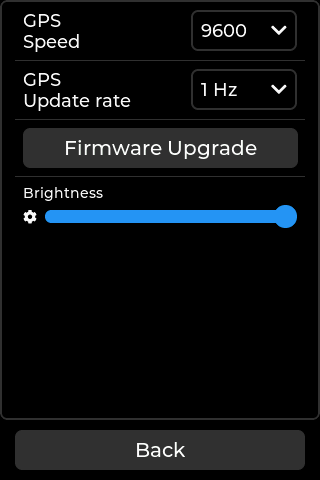
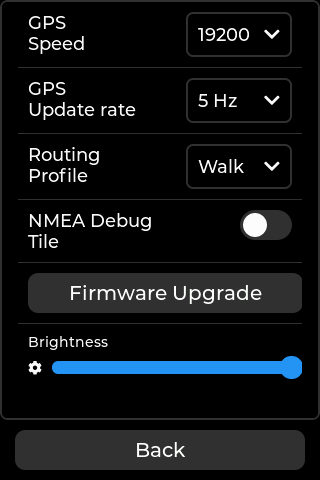
feat(gps): show live raw NMEA in debug tile with opt-in setting

diff --git a/lib/tasks/tasks.cpp b/lib/tasks/tasks.cpp
@@ -27,6 +27,10 @@ uint32_t nmeaDebugCycles = 0;
 uint8_t  nmeaLastMsg     = 0;   // last GPS.nmeaMessage seen per cycle
 portMUX_TYPE nmeaDebugMux = portMUX_INITIALIZER_UNLOCKED;
 
+// Raw NMEA sentence ring buffer — written by gpsTask, read by debug tile
+char    nmeaRawBuf[NMEA_RAW_LINES][NMEA_RAW_LEN] = {};
+uint8_t nmeaRawHead = 0;
+
 static constexpr TickType_t MUTEX_TIMEOUT_GPS  = pdMS_TO_TICKS(15);
 static constexpr TickType_t MUTEX_TIMEOUT_SLOW = pdMS_TO_TICKS(10);
 
@@ -59,24 +63,58 @@ void gpsTask(void *pvParameters)
             }
             else
             {
-                while (GPS.available( gpsPort ))
+                // Feed the parser one character at a time (same bytes, same order
+                // as GPS.available() would consume) while mirroring each complete
+                // sentence into the raw ring buffer for the debug tile. Parsing is
+                // unaffected; capture is purely a side effect.
+                static char    lineBuf[NMEA_RAW_LEN];
+                static uint8_t lineLen = 0;
+
+                while (gpsPort.available())
                 {
-                    fix = GPS.read();
-                    gps.getGPSData();
+                    char c = (char)gpsPort.read();
 
-                    portENTER_CRITICAL(&nmeaDebugMux);
-                    nmeaDebugOk    = GPS.statistics.ok;
-                    nmeaDebugErr   = GPS.statistics.errors;
-                    nmeaLastMsg    = (uint8_t)GPS.nmeaMessage;
-                    nmeaDebugCycles++;
-                    portEXIT_CRITICAL(&nmeaDebugMux);
+                    if (c == '\n' || c == '\r')
+                    {
+                        if (lineLen > 0)
+                        {
+                            lineBuf[lineLen] = '\0';
+                            portENTER_CRITICAL(&nmeaDebugMux);
+                            strncpy(nmeaRawBuf[nmeaRawHead], lineBuf, NMEA_RAW_LEN - 1);
+                            nmeaRawBuf[nmeaRawHead][NMEA_RAW_LEN - 1] = '\0';
+                            nmeaRawHead = (nmeaRawHead + 1) % NMEA_RAW_LINES;
+                            portEXIT_CRITICAL(&nmeaDebugMux);
+                            lineLen = 0;
+                        }
+                    }
+                    else if (lineLen < NMEA_RAW_LEN - 1)
+                    {
+                        lineBuf[lineLen++] = c;
+                    }
 
-                    // Only flag a satellite-data update when this cycle actually
-                    // carried GSV (sat_count > 0). With GSV decimated to ~1Hz the
-                    // intermediate cycles report 0, so this avoids redrawing the
-                    // constellation at the full rate with unchanged data.
-                    if (GPS.sat_count > 0)
-                        satDataUpdated = true;
+                    // handle() returns DECODE_COMPLETED at the end of every
+                    // sentence, but a fix is only buffered once the interval
+                    // closes (LAST_SENTENCE_IN_INTERVAL). Read only when one is
+                    // actually available, exactly like GPS.available() does.
+                    if (GPS.handle((uint8_t)c) == NMEAGPS::DECODE_COMPLETED && GPS.available())
+                    {
+                        fix = GPS.read();
+                        gps.getGPSData();
+
+                        portENTER_CRITICAL(&nmeaDebugMux);
+                        nmeaDebugOk    = GPS.statistics.ok;
+                        nmeaDebugErr   = GPS.statistics.errors;
+                        nmeaLastMsg    = (uint8_t)GPS.nmeaMessage;
+                        nmeaDebugCycles++;
+                        portEXIT_CRITICAL(&nmeaDebugMux);
+
+                        // Only flag a satellite-data update when this cycle actually
+                        // carried GSV (sat_count > 0). With GSV decimated to ~1Hz the
+                        // intermediate cycles report 0, so this avoids redrawing the
+                        // constellation at the full rate with unchanged data.
+                        if (GPS.sat_count > 0)
+                            satDataUpdated = true;
+                    }
                 }
             }
 
@@ -117,13 +155,13 @@ void gpsTask(void *pvParameters)
 /**
  * @brief Initialize GPS processing task
  *
- * @details Creates and starts the GPS task on core 0 with 3KB stack size and priority 2.
+ * @details Creates and starts the GPS task on core 0 with 4KB stack size and priority 2.
  *          Includes a 500ms delay after task creation to ensure proper initialization
  *          before other system components attempt to access GPS data.
  */
 void initGpsTask()
 {
-    xTaskCreatePinnedToCore(gpsTask, PSTR("GPS Task"), 3072, NULL, 2, NULL, 0);
+    xTaskCreatePinnedToCore(gpsTask, PSTR("GPS Task"), 4096, NULL, 2, NULL, 0);
     vTaskDelay(pdMS_TO_TICKS(500));
 }
 

diff --git a/lib/gui/src/nmeaDebugScr.cpp b/lib/gui/src/nmeaDebugScr.cpp
@@ -12,6 +12,8 @@
 #include "mainScr.hpp"
 #include <NMEAGPS.h>
 #include "esp_timer.h"
+#include <cstring>
+#include <cstdio>
 
 extern NMEAGPS GPS;
 extern gps_fix  fix;
@@ -26,6 +28,7 @@ static lv_obj_t *dbgFixLabel;
 static lv_obj_t *dbgSatsLabel;
 static lv_obj_t *dbgBufLabel;
 static lv_obj_t *dbgHintLabel;
+static lv_obj_t *dbgRawLabel;
 
 static uint32_t prevOk    = 0;
 static uint32_t prevCycle = 0;
@@ -97,6 +100,31 @@ static void nmea_debug_observer_cb(lv_observer_t *observer, lv_subject_t *subjec
     lv_label_set_text_fmt(dbgBufLabel, "UART buf  : %d bytes", avail);
 
     lv_label_set_text(dbgHintLabel, "Cfg last: $RMC (NMEAGPS_cfg.h)");
+
+    // Raw NMEA: snapshot the ring buffer under the lock, then format outside it
+    // to keep the critical section (interrupts disabled) as short as possible.
+    static char rawSnap[NMEA_RAW_LINES][NMEA_RAW_LEN];
+    uint8_t head;
+    portENTER_CRITICAL(&nmeaDebugMux);
+    head = nmeaRawHead;
+    memcpy(rawSnap, nmeaRawBuf, sizeof(rawSnap));
+    portEXIT_CRITICAL(&nmeaDebugMux);
+
+    // static to keep it off the (limited) observer/timer-context stack
+    static char rawDump[NMEA_RAW_LINES * NMEA_RAW_LEN];
+    size_t pos = 0;
+    for (uint8_t i = 0; i < NMEA_RAW_LINES; i++)
+    {
+        uint8_t idx = (head + i) % NMEA_RAW_LINES;
+        if (rawSnap[idx][0] == '\0')
+            continue;
+        int written = snprintf(rawDump + pos, sizeof(rawDump) - pos, "%s\n", rawSnap[idx]);
+        if (written < 0 || (size_t)written >= sizeof(rawDump) - pos)
+            break;
+        pos += written;
+    }
+    rawDump[pos] = '\0';
+    lv_label_set_text(dbgRawLabel, rawDump);
 }
 
 /**
@@ -117,7 +145,8 @@ void nmeaDebugScr(_lv_obj_t *screen)
     lv_obj_add_style(cont, &styleTransparent, LV_PART_MAIN);
     lv_obj_set_flex_flow(cont, LV_FLEX_FLOW_COLUMN);
     lv_obj_set_flex_align(cont, LV_FLEX_ALIGN_START, LV_FLEX_ALIGN_START, LV_FLEX_ALIGN_START);
-    lv_obj_clear_flag(cont, LV_OBJ_FLAG_SCROLLABLE);
+    // Stats + raw dump may exceed the tile height; allow vertical scroll.
+    lv_obj_set_scroll_dir(cont, LV_DIR_VER);
 
     auto makeLabel = [&](lv_obj_t *&label, const char *init)
     {
@@ -136,6 +165,14 @@ void nmeaDebugScr(_lv_obj_t *screen)
     makeLabel(dbgSatsLabel,    "Sats used : --");
     makeLabel(dbgBufLabel,     "UART buf  : --");
     makeLabel(dbgHintLabel,    "Cfg last: $RMC");
+
+    // Raw NMEA mirror: last sentences fed to the parser, small monospace-ish font
+    dbgRawLabel = lv_label_create(cont);
+    lv_obj_set_width(dbgRawLabel, TFT_WIDTH - 10);
+    lv_obj_set_style_text_font(dbgRawLabel, fontSmall, 0);
+    lv_obj_set_style_text_color(dbgRawLabel, lv_palette_main(LV_PALETTE_LIGHT_GREEN), 0);
+    lv_label_set_long_mode(dbgRawLabel, LV_LABEL_LONG_WRAP);
+    lv_label_set_text(dbgRawLabel, "");
 
     lv_subject_add_observer_obj(&subject_nmea_debug_trigger,
                                 nmea_debug_observer_cb, cont, NULL);

diff --git a/lib/gui/src/deviceSettingsScr.cpp b/lib/gui/src/deviceSettingsScr.cpp
@@ -37,10 +37,24 @@ static void deviceSettingsEvent(lv_event_t *event)
         navSet.routeSpeed = ROUTE_SPEED_VALUES[idx];
         cfg.saveShort(PKEYS::KROUTE_SPEED, (int16_t)navSet.routeSpeed);
     }
+    if (strcmp(option, "nmeadbg") == 0)
+    {
+        nmeaDebugTileEnabled = lv_obj_has_state(obj, LV_STATE_CHECKED);
+        cfg.saveBool(PKEYS::KNMEA_DEBUG, nmeaDebugTileEnabled);
+        // The main screen tiles are built once at boot; a restart is needed
+        // to add or remove the debug tile.
+        needReboot = true;
+    }
     if (strcmp(option, "back") == 0)
     {
         cfg.saveUInt(PKEYS::KDEF_BRIGT, defBright);
-        lv_screen_load(settingsScreen);
+        if (needReboot)
+        {
+            lv_obj_delete(deviceSettingsScreen);
+            showRestartScr();
+        }
+        else
+            lv_screen_load(settingsScreen);
     }
 }
 
@@ -197,6 +211,18 @@ void createDeviceSettingsScr()
     lv_obj_align_to(dropdown, list, LV_ALIGN_OUT_RIGHT_MID, 0, 0);
     lv_obj_set_width(dropdown, TFT_WIDTH / 3);
     lv_obj_add_event_cb(dropdown, deviceSettingsEvent, LV_EVENT_VALUE_CHANGED, (char*)"routeprofile");
+    // NMEA Debug Tile
+    list = lv_list_add_btn(deviceSettingsOptions, NULL, "NMEA Debug\nTile");
+    lv_obj_set_style_text_font(list, fontOptions, 0);
+    lv_obj_clear_flag(list, LV_OBJ_FLAG_CLICKABLE);
+    lv_obj_set_align(list, LV_ALIGN_LEFT_MID);
+    lv_obj_t *nmeaDbgSwitch = lv_switch_create(list);
+    if (nmeaDebugTileEnabled)
+        lv_obj_add_state(nmeaDbgSwitch, LV_STATE_CHECKED);
+    else
+        lv_obj_clear_state(nmeaDbgSwitch, LV_STATE_CHECKED);
+    lv_obj_align_to(nmeaDbgSwitch, list, LV_ALIGN_OUT_RIGHT_MID, 0, 0);
+    lv_obj_add_event_cb(nmeaDbgSwitch, deviceSettingsEvent, LV_EVENT_VALUE_CHANGED, (char*)"nmeadbg");
     // Upgrade button
     list = lv_list_add_btn(deviceSettingsOptions, NULL, NULL);
     btn = lv_btn_create(list);

diff --git a/lib/gui/src/mainScr.cpp b/lib/gui/src/mainScr.cpp
@@ -990,8 +990,11 @@ void createMainScr()
     mapTile = lv_tileview_add_tile(tilesScreen, 1, 0, (lv_dir_t)(LV_DIR_LEFT | LV_DIR_RIGHT));
     navTile = lv_tileview_add_tile(tilesScreen, 2, 0, (lv_dir_t)(LV_DIR_LEFT | LV_DIR_RIGHT));
     lv_obj_add_flag(navTile, LV_OBJ_FLAG_HIDDEN);
-    satTrackTile = lv_tileview_add_tile(tilesScreen, 3, 0, (lv_dir_t)(LV_DIR_LEFT | LV_DIR_RIGHT));
-    nmeaDebugTile = lv_tileview_add_tile(tilesScreen, 4, 0, LV_DIR_LEFT);
+    // The satellite tile keeps a right swipe only when the NMEA debug tile exists.
+    lv_dir_t satTileDir = nmeaDebugTileEnabled ? (lv_dir_t)(LV_DIR_LEFT | LV_DIR_RIGHT) : LV_DIR_LEFT;
+    satTrackTile = lv_tileview_add_tile(tilesScreen, 3, 0, satTileDir);
+    if (nmeaDebugTileEnabled)
+        nmeaDebugTile = lv_tileview_add_tile(tilesScreen, 4, 0, LV_DIR_LEFT);
     lv_obj_set_size(tilesScreen, TFT_WIDTH, TFT_HEIGHT - 25);
     lv_obj_set_pos(tilesScreen, 0, 25);
     lv_obj_add_style(tilesScreen, &styleScrollbarWhite, LV_PART_SCROLLBAR);
@@ -1071,7 +1074,8 @@ void createMainScr()
     lv_subject_set_int(&subject_map_3d, mapSet.map3D ? 1 : 0);
     lv_subject_add_observer_obj(&subject_map_3d, map_3d_observer_cb, mapTile, NULL);
     satelliteScr(satTrackTile);
-    nmeaDebugScr(nmeaDebugTile);
+    if (nmeaDebugTileEnabled)
+        nmeaDebugScr(nmeaDebugTile);
     // timer is permanent — mainScreen is never destroyed
     map_inertia_timer = lv_timer_create(map_inertia_timer_cb, 20, NULL);
     lv_timer_pause(map_inertia_timer);

diff --git a/lib/settings/settings.cpp b/lib/settings/settings.cpp
@@ -50,6 +50,7 @@ bool     enableWeb      = true; /**< Enable or disable web file server */
 bool     showMapToolBar = false;/**< Show Map Toolbar */
 int8_t   tempOffset     = 0;    /**< BME Temperature offset */
 bool     calculateDST   = false;/**< Daylight Saving Time calculation flag */
+bool     nmeaDebugTileEnabled = false; /**< Show the NMEA debug tile */
 
 
 extern Battery battery;
@@ -105,6 +106,7 @@ void loadPreferences()
     GPS_RX = cfg.getUInt(PKEYS::KGPS_RX, GPS_RX);
     enableWeb = cfg.getBool(PKEYS::KWEB_FILE, enableWeb);
     tempOffset = cfg.getInt(PKEYS::KTEMP_OFFS, 0);
+    nmeaDebugTileEnabled = cfg.getBool(PKEYS::KNMEA_DEBUG, false);
 
     // Default Widgets positions
     #ifdef TDECK_ESP32S3

diff --git a/lib/tasks/tasks.hpp b/lib/tasks/tasks.hpp
@@ -43,6 +43,14 @@ extern uint32_t nmeaDebugCycles;
 extern uint8_t  nmeaLastMsg;
 extern portMUX_TYPE nmeaDebugMux;
 
+// Raw NMEA sentence ring buffer — written by gpsTask, read by debug tile.
+// Captures each complete sentence as it is fed to the parser, without
+// disabling parsing. Protected by nmeaDebugMux.
+#define NMEA_RAW_LINES 12   /**< Number of sentences kept in the ring buffer. */
+#define NMEA_RAW_LEN   88   /**< Max bytes stored per sentence (incl. terminator). */
+extern char    nmeaRawBuf[NMEA_RAW_LINES][NMEA_RAW_LEN];
+extern uint8_t nmeaRawHead;  /**< Index of the next slot to write (oldest line). */
+
 void gpsTask(void *pvParameters);
 
 void initGpsTask();

diff --git a/lib/settings/settings.hpp b/lib/settings/settings.hpp
@@ -56,6 +56,7 @@ extern uint16_t sunPosY;        /**< Sunrise/Sunset widget position Y */
 extern bool enableWeb;          /**< Enable or disable web file server */
 extern int8_t tempOffset;       /**< BME temperature sensor offset */
 extern bool calculateDST;       /**< Daylight Saving Time calculation flag */
+extern bool nmeaDebugTileEnabled; /**< Show the NMEA debug tile */
 
 /**
  * @brief Structure for map settings

diff --git a/lib/preferences/preferences-keys.h b/lib/preferences/preferences-keys.h
@@ -39,4 +39,5 @@
   X(KKALM_Q, "kalmanQ", FLOAT)           \
   X(KKALM_R, "kalmanR", FLOAT)           \
   X(KROUTE_SPEED, "routeSpeed", SHORT)   \
+  X(KNMEA_DEBUG, "nmeaDbgTile", BOOL)    \
   X(KCOUNT, "KCOUNT", UNKNOWN)

diff --git a/lib/gui/src/deviceSettingsScr.hpp b/lib/gui/src/deviceSettingsScr.hpp
@@ -12,6 +12,7 @@
 #include "upgradeScr.hpp"
 #include "lvglSetup.hpp"
 #include "firmUpgrade.hpp"
+#include "lvglFuncs.hpp"
 #include "settings.hpp"
 
 static lv_obj_t *deviceSettingsOptions; /**< Device settings options */

diff --git a/README.md b/README.md
@@ -35,11 +35,11 @@ ESP32 Based GPS Navigator (LVGL - LovyanGFX).
 |:-:|:-:|:-:|:-:|:-:|
 | Rendered Map | Vectorized Map | Navigation Screen | Navigation Screen | Satellite Info |
 
-|<img src="images/dev/addwpt_n.jpg">|<img src="images/dev/addwpt_l.jpg">|<img src="images/dev/wptlist.jpg">|<img src="images/dev/3dMap.png">|
-|:-:|:-:|:-:|:-:|
-| Add Waypoint | Add Waypoint (landscape) | Waypoint List | 3D Map view |
+|<img src="images/dev/nmeadebug.png">|<img src="images/dev/addwpt_n.jpg">|<img src="images/dev/addwpt_l.jpg">|<img src="images/dev/wptlist.jpg">|<img src="images/dev/3dMap.png">|
+|:-:|:-:|:-:|:-:|:-:|
+| NMEA Debug | Add Waypoint | Add Waypoint (landscape) | Waypoint List | 3D Map view |
 
-|<img src="images/dev/settings.jpg">|<img src="images/dev/compasscal.jpg">|<img src="images/dev/touchcal.jpg">|<img src="images/dev/mapsettings.jpg">|<img src="images/dev/devicesettings.png">|
+|<img src="images/dev/settings.jpg">|<img src="images/dev/compasscal.jpg">|<img src="images/dev/touchcal.jpg">|<img src="images/dev/mapsettings.png">|<img src="images/dev/devicesettings.png">|
 |:-:|:-:|:-:|:-:|:-:|
 | Settings | Compass Calibration | Touch Calibration | Map Settings | Device Settings |
 
@@ -307,6 +307,7 @@ Some extra details:
     kalmanQ     custom          0.00500000     Def. Kalman Filter const. Process noise covariance (0-1)
     kalmanR     custom          0.60000000     Def. Kalman Filter const. Measurement noise covariance (0-1)
  routeSpeed     custom          130            Max speed (km/h) for A* heuristic: 130=car, 25=bike, 5=walk. Selects ROUTE/CAR|BIKE|WALK/ROUTE.bin on SD card.
+nmeaDbgTile     custom          false          Show the NMEA debug tile 
 
 
 ```          
